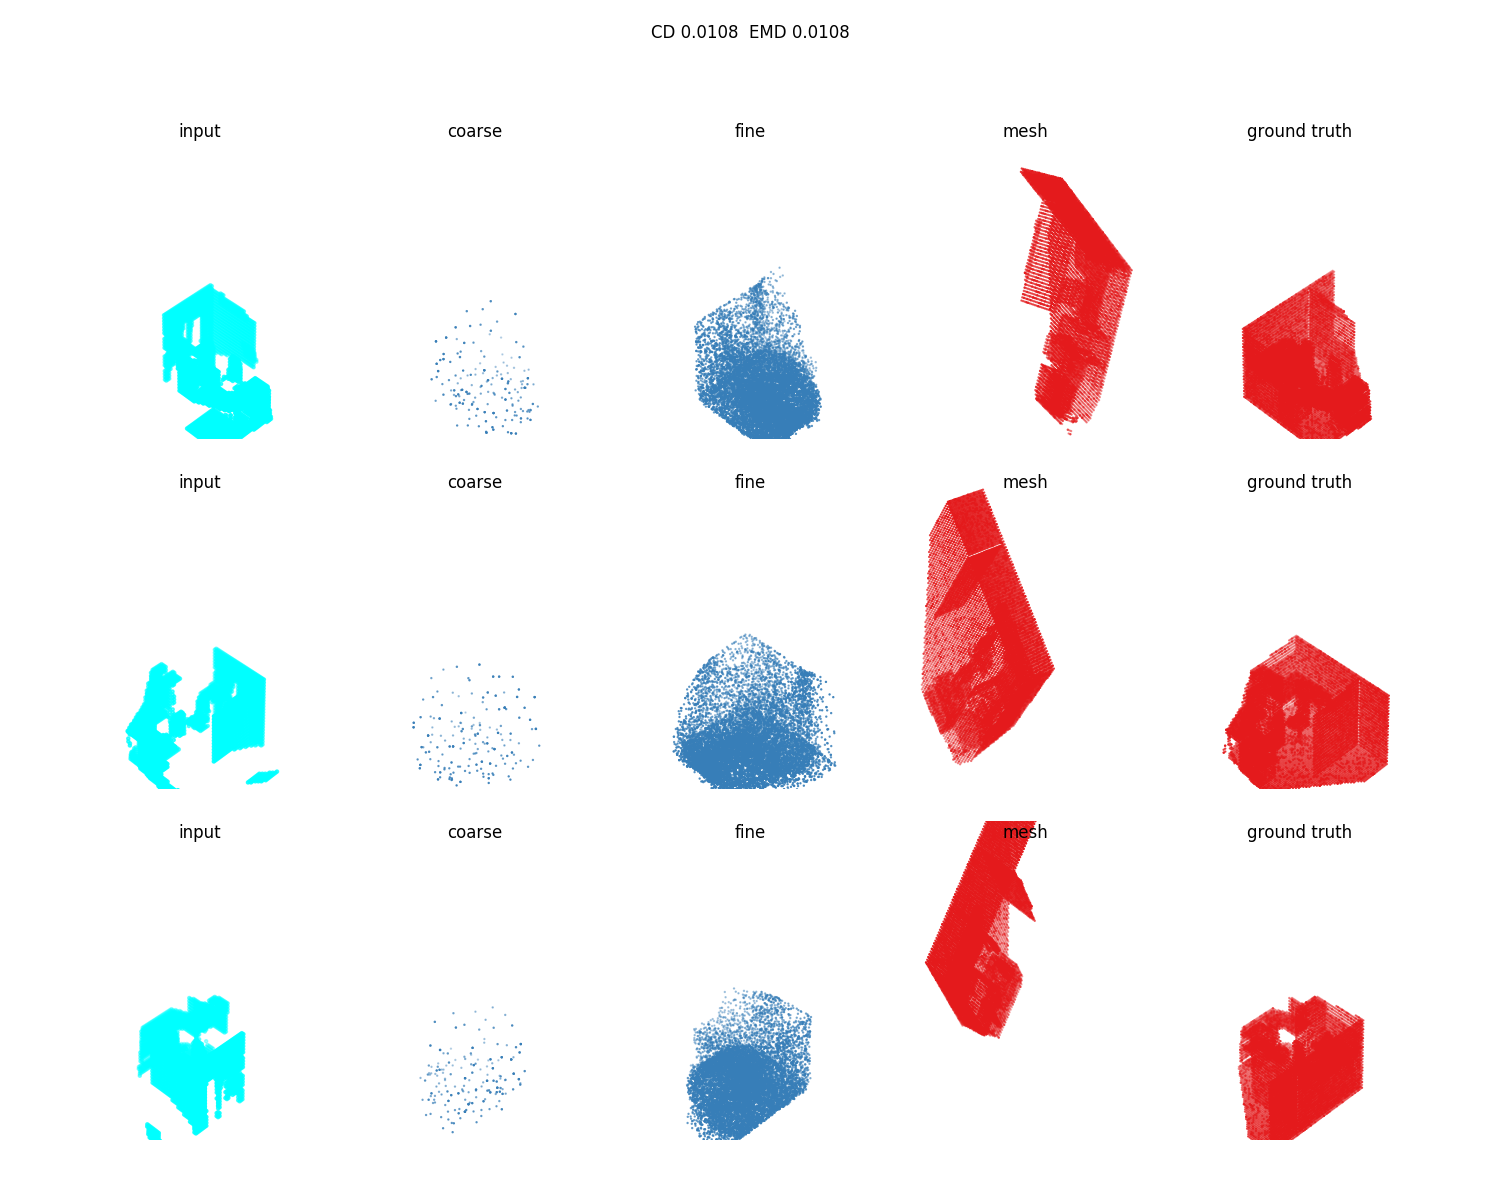
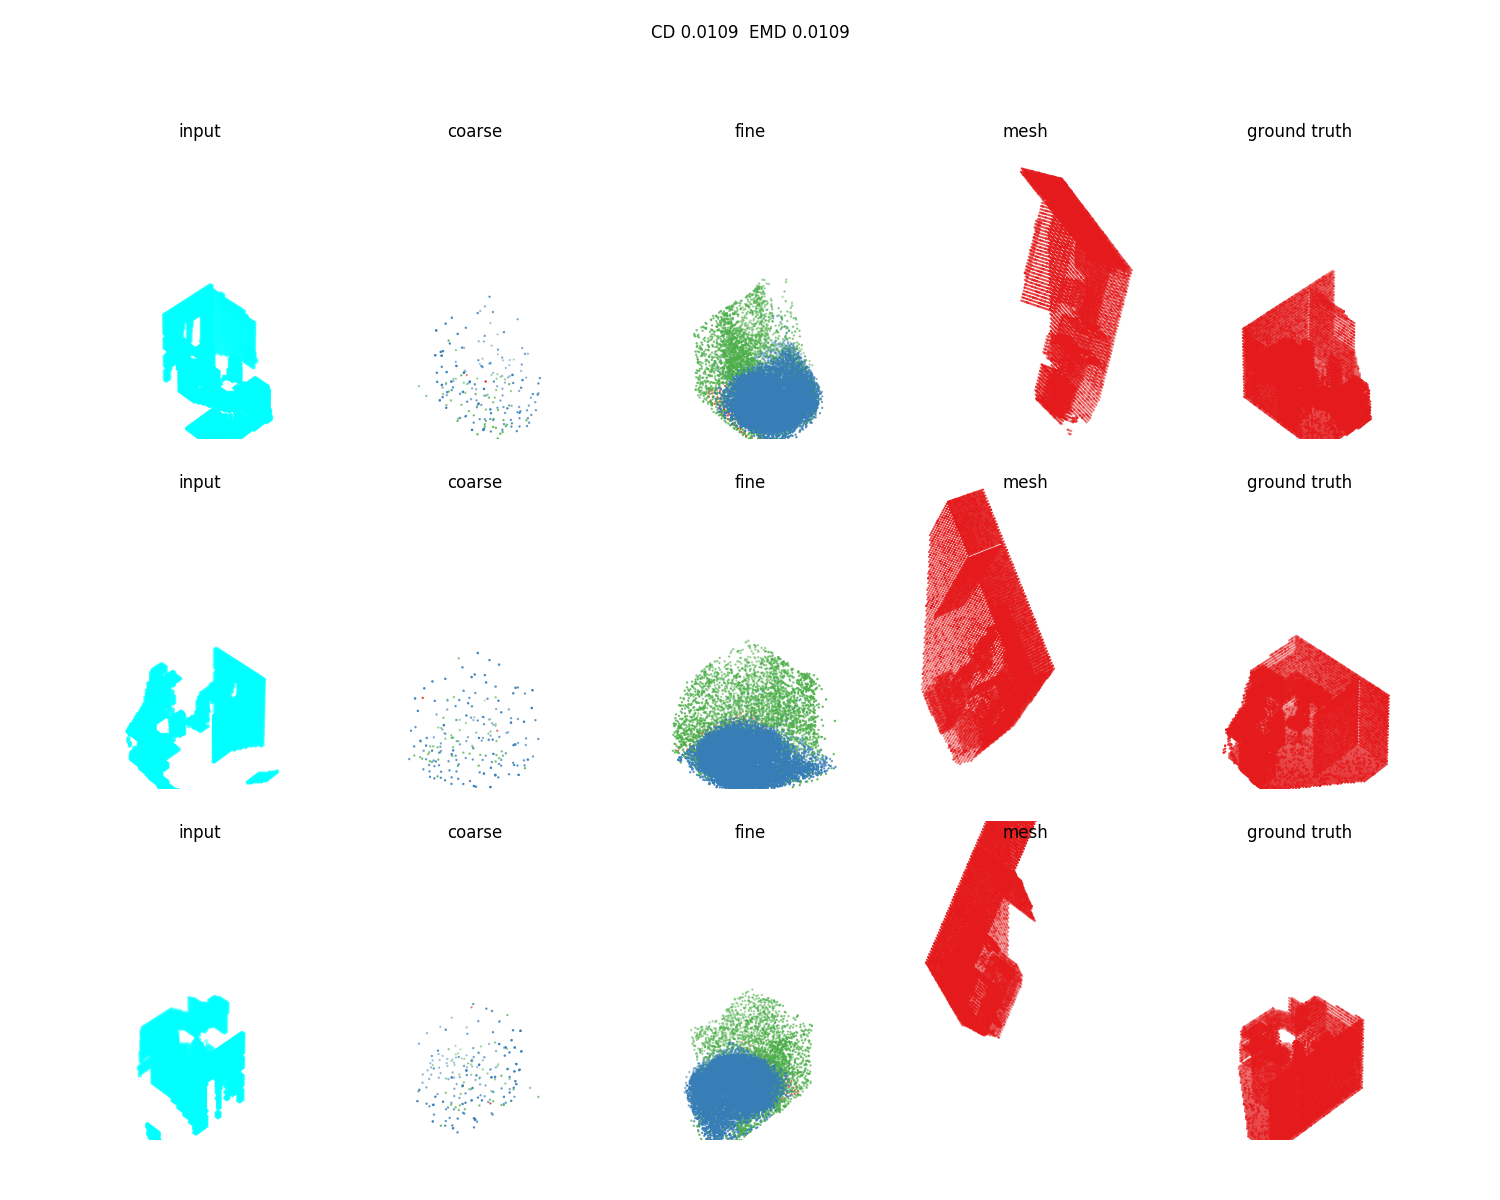
add plots

diff --git a/train.py b/train.py
@@ -151,7 +151,7 @@ if __name__ == '__main__':
     parser.add_argument('--model_type', default='pcn_emd')
     parser.add_argument('--restore', action='store_true')
     parser.add_argument('--rotate', action='store_true')
-    parser.add_argument('--batch_size', type=int, default=8)
+    parser.add_argument('--batch_size', type=int, default=16)
     parser.add_argument('--num_input_points', type=int, default=2048)
     parser.add_argument('--num_gt_points', type=int, default=16384)
     parser.add_argument('--base_lr', type=float, default=0.0001)

diff --git a/models/pcn_reg.py b/models/pcn_reg.py
@@ -157,7 +157,7 @@ class Model:
             loss_fine += 0.01 * loss_sem_fine
         add_train_summary('train/fine_loss', loss_fine)
         update_fine = add_valid_summary('valid/fine_loss', loss_fine)
-        loss = alpha * loss_coarse + loss_fine # + entropy
+        loss = alpha * loss_coarse + loss_fine + entropy
         # loss = loss_coarse + entropy
         add_train_summary('train/loss', loss)
         update_loss = add_valid_summary('valid/loss', loss)
